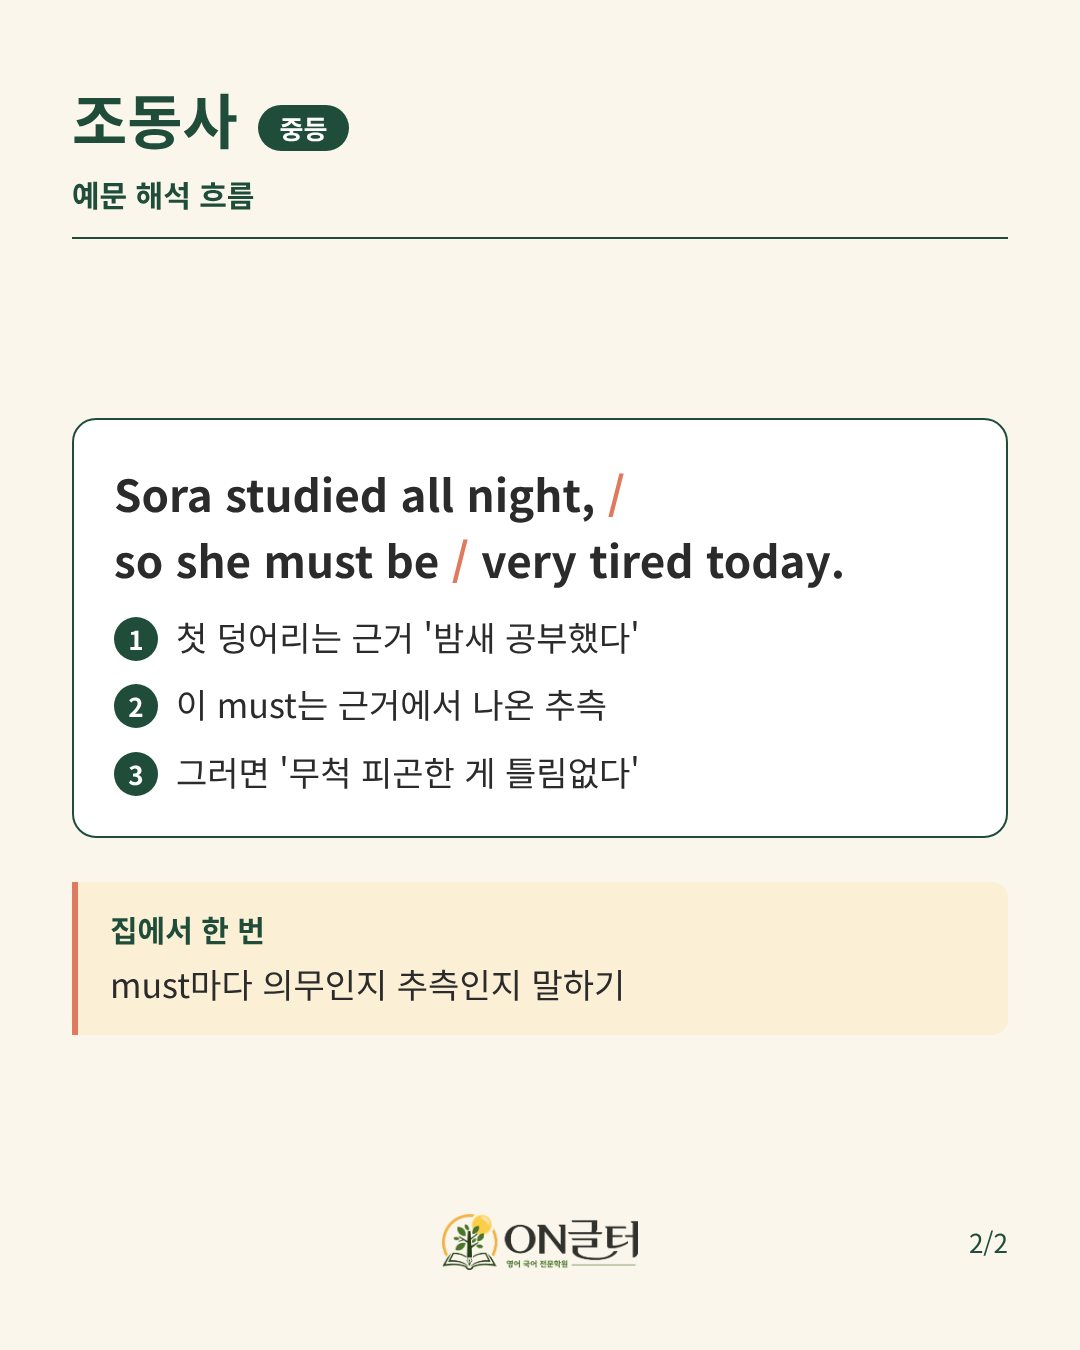
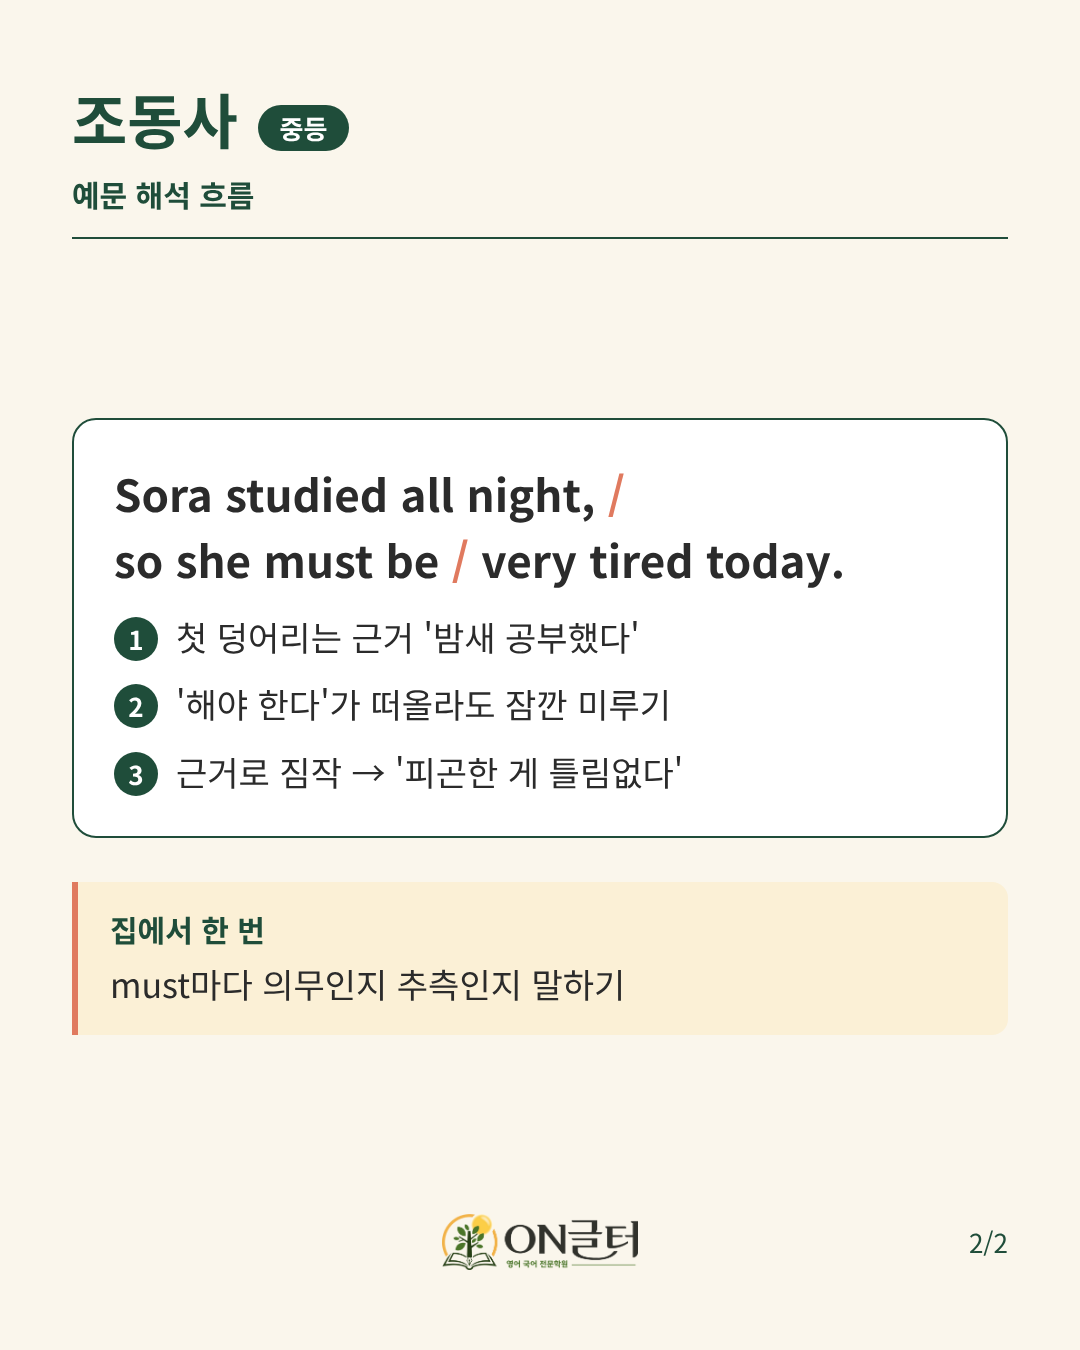
블로그: 중등 조동사 2차 검토 반영 (본문·정리본 해석 단계)
Claude-Session: https://claude.ai/code/session_01FNVvsh8yoBYdMjNqx9JkZi

Changed region(s): [[0.1528, 0.56, 0.6417, 0.5911], [0.1528, 0.4978, 0.6111, 0.5289]]

diff --git a/blog/중등_조동사/src/영상.html b/blog/중등_조동사/src/영상.html
@@ -43,8 +43,8 @@ body{background:#FAF6EC;font-family:"NKR",sans-serif;color:#2B2B2B;word-break:ke
 <section class="scene" id="s3"><div class="wrap">
   <p class="ex rise" style="animation-delay:7s">Sora studied all night, <span class="cut" style="animation-delay:8s">/</span><br>so she must be <span class="cut" style="animation-delay:8.4s">/</span><br>very tired today.</p>
   <div class="step rise" style="animation-delay:9.5s"><span class="badge">1</span><span>첫 덩어리는 근거 '밤새 공부했다'</span></div>
-  <div class="step rise" style="animation-delay:12s"><span class="badge">2</span><span>이 must는 근거에서 나온 추측</span></div>
-  <div class="step rise" style="animation-delay:14.5s"><span class="badge">3</span><span>그러면 '무척 피곤한 게 틀림없다'</span></div>
+  <div class="step rise" style="animation-delay:12s"><span class="badge">2</span><span>'해야 한다'가 떠올라도 잠깐 미루기</span></div>
+  <div class="step rise" style="animation-delay:14.5s"><span class="badge">3</span><span>근거로 짐작 → '피곤한 게 틀림없다'</span></div>
 </div></section>
 <section class="scene" id="s4"><div class="wrap"><div class="var rise" style="animation-delay:19.2s"><span class="label">여기서 헷갈려요</span>must를 '~해야 한다'로만 읽는 순간</div></div></section>
 <section class="scene" id="s5"><div class="wrap"><p class="quote rise" style="animation-delay:23.2s">"조동사 하나를 바르게 읽으면,<br>문장 전체의 방향이 보입니다."</p></div></section>

diff --git a/blog/중등_조동사/src/정리본_2.html b/blog/중등_조동사/src/정리본_2.html
@@ -4,8 +4,8 @@
   <div class="body">
     <div class="card"><p class="ex">Sora studied all night, <span class="cut">/</span><br>so she must be <span class="cut">/</span> very tired today.</p>
       <div class="step"><span class="badge">1</span><span>첫 덩어리는 근거 '밤새 공부했다'</span></div>
-      <div class="step"><span class="badge">2</span><span>이 must는 근거에서 나온 추측</span></div>
-      <div class="step"><span class="badge">3</span><span>그러면 '무척 피곤한 게 틀림없다'</span></div>
+      <div class="step"><span class="badge">2</span><span>'해야 한다'가 떠올라도 잠깐 미루기</span></div>
+      <div class="step"><span class="badge">3</span><span>근거로 짐작 → '피곤한 게 틀림없다'</span></div>
     </div>
     <div class="var"><span class="label">집에서 한 번</span>must마다 의무인지 추측인지 말하기</div>
   </div>

diff --git a/blog/중등_조동사/본문.md b/blog/중등_조동사/본문.md
@@ -5,7 +5,7 @@
 must를 보자마자 '~해야 한다'로 옮기면, 문장 앞부분과 해석이 어긋나기 쉽습니다.
 
 can, must 같은 조동사 뒤에는 늘 동사원형이 옵니다.
-한마디로 동사에 능력·의무·추측 등의 뜻을 더하는 말입니다.
+조동사는 한마디로 동사에 능력·의무·추측 등의 뜻을 더하는 말입니다.
 까다롭게도 must는 '~해야 한다'와 '~임에 틀림없다' 두 뜻을 가집니다.
 의무로만 읽으면 추측 문장에서 오독합니다.
 
